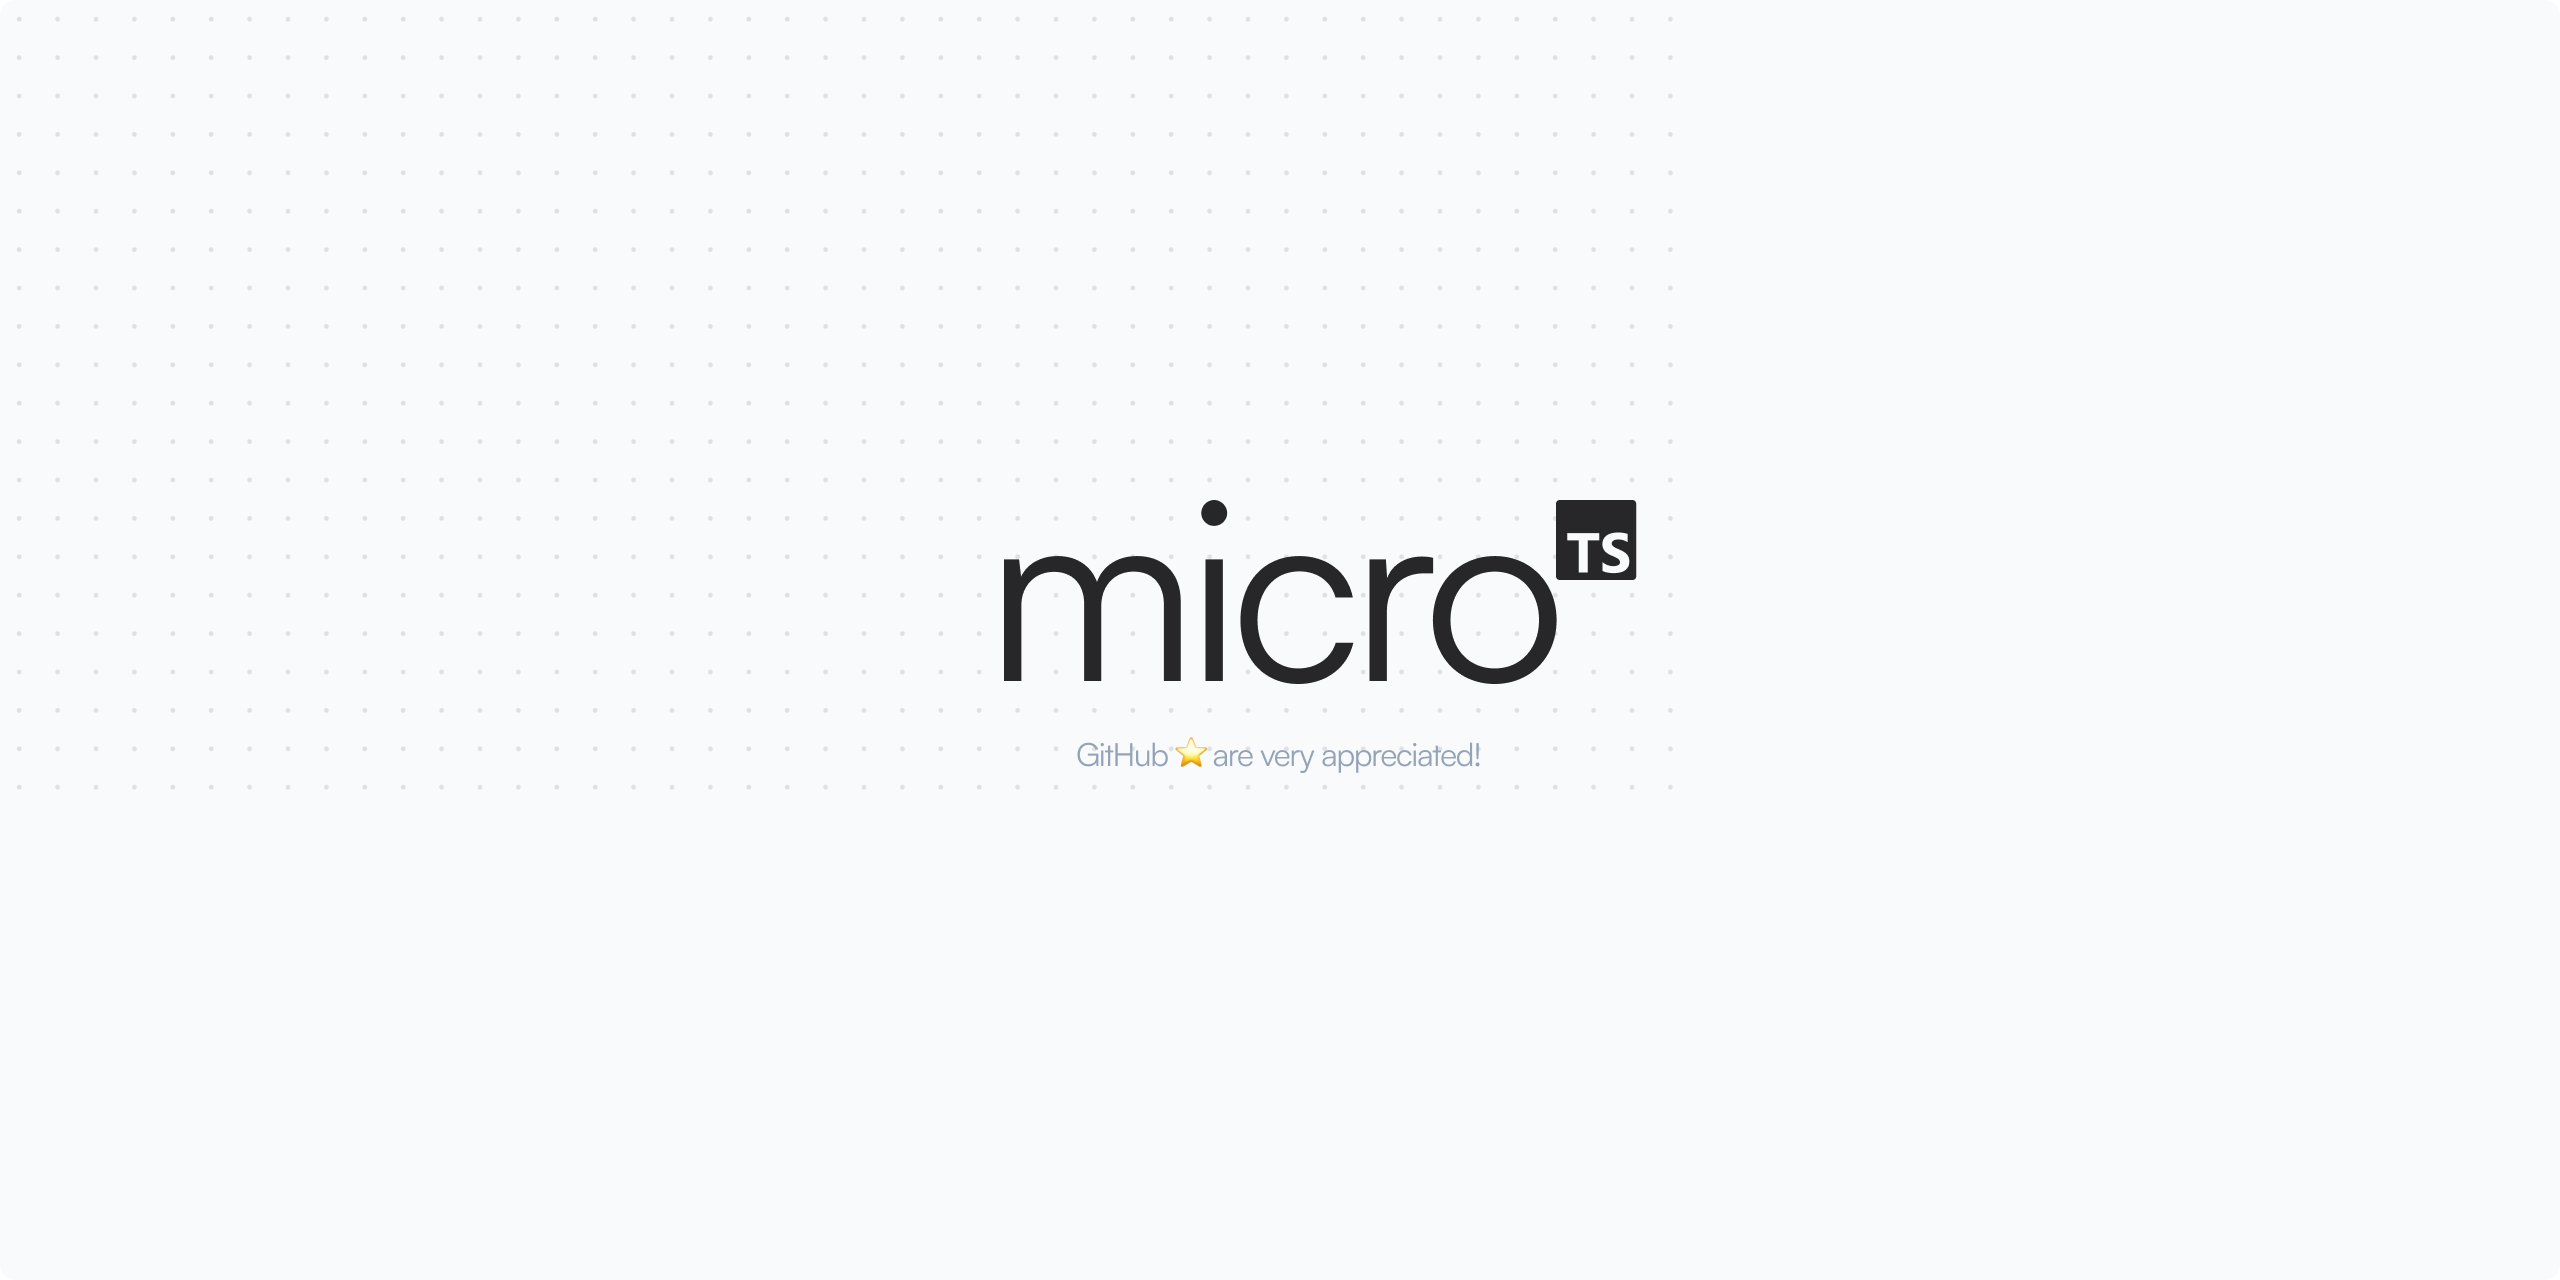
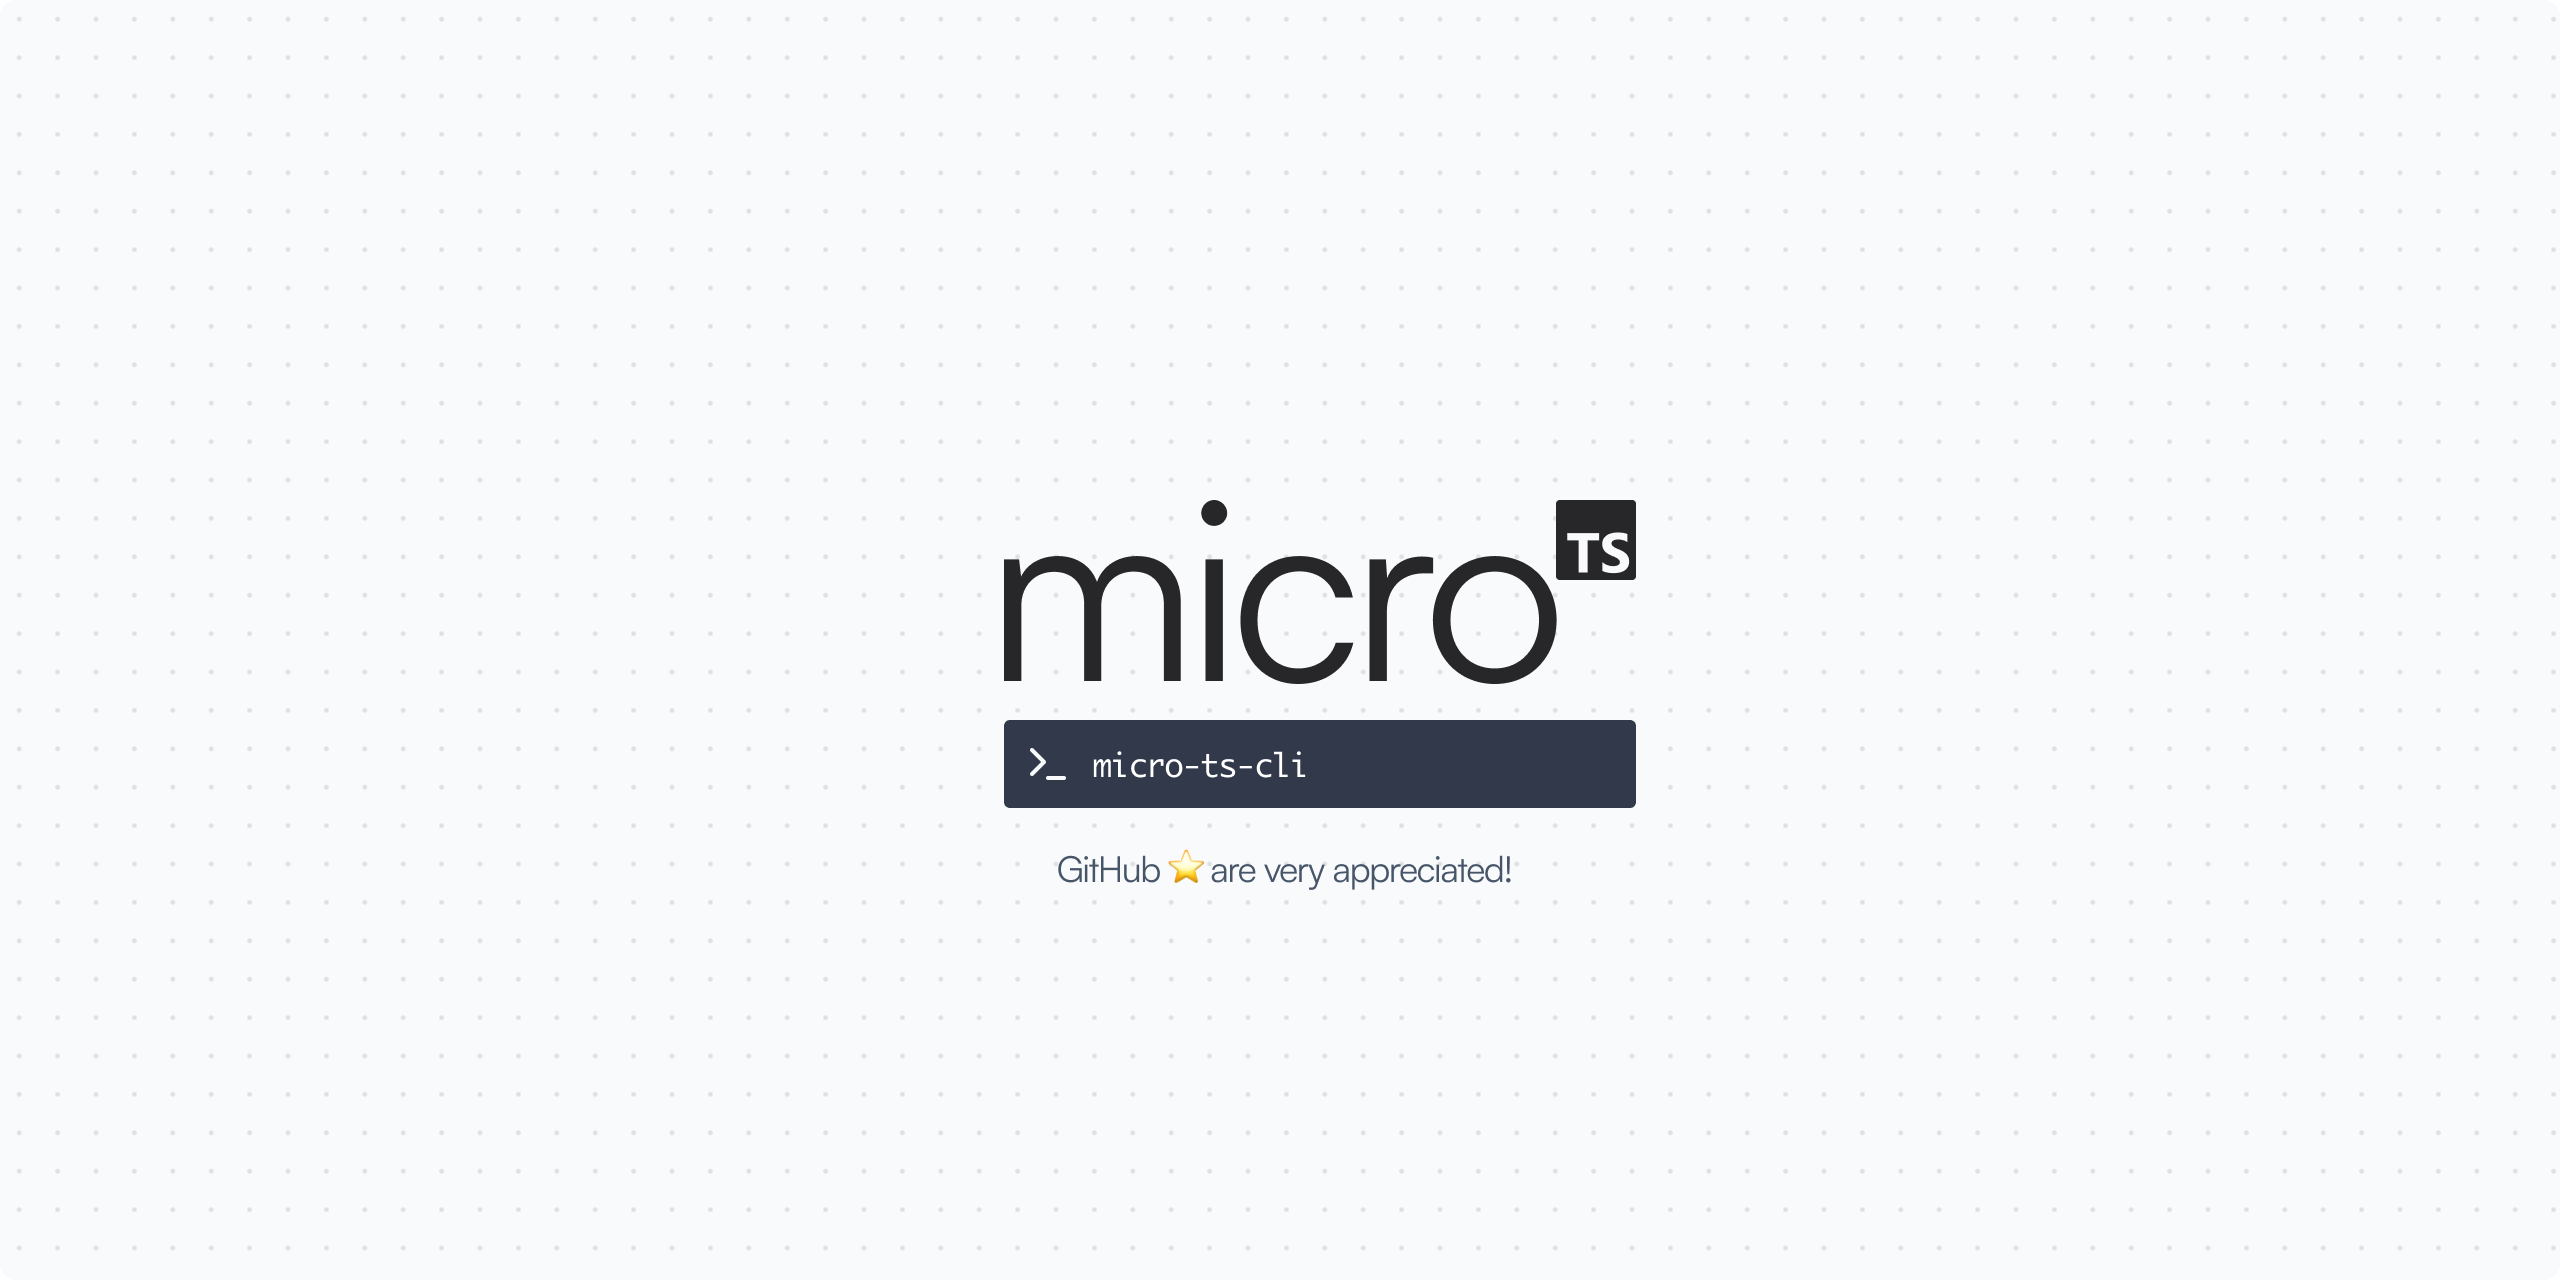
feat: :tada: micro-ts-cli is alive!
- v1.0 - `micro-ts-cli` will let you quickly clone and rename your next `micro-ts` project in seconds - Clone the repo into your CWD - Replace some values in the package.json file

Changed region(s): [[0.375, 0.5625, 0.6562, 0.6875]]

diff --git a/src/bin/cli.ts b/src/bin/cli.ts
@@ -1,0 +1,34 @@
+#!/usr/bin/env node
+
+import { intro, outro, spinner, isCancel, cancel, text } from '@clack/prompts'
+import color from 'picocolors'
+import cloneGitHubRepo from '../commands/clone-github-repo'
+import replacePackageValues from '../commands/replace-package-values'
+
+async function main() {
+    console.log()
+    intro(color.inverse('micro-ts-cli'))
+    intro(`Build a your next micro ${color.blue('TypeScript')} ${color.bold('project in seconds!')}`)
+
+    const projectName = await text({
+        message: 'Project name',
+        placeholder: 'my-micro-ts-project',
+    })
+
+    if (isCancel(projectName)) {
+        cancel(`Project creation cancelled`)
+        return process.exit(1)
+    }
+
+    const s = spinner()
+    s.start('Fetching micro-ts from GitHub...')
+
+    const path = await cloneGitHubRepo(projectName)
+    await replacePackageValues(path, projectName)
+
+    s.stop('micro-ts cloned from GitHub at : ' + color.bold(path))
+
+    outro(`Enjoy your new ${color.bold('micro-ts')} project!`)
+}
+
+main().catch(console.error)

diff --git a/src/commands/replace-package-values.ts b/src/commands/replace-package-values.ts
@@ -1,0 +1,21 @@
+import { replaceInFile } from 'replace-in-file'
+
+export default async (path: string, name: string) => {
+    const options = {
+        files: `${path}/package.json`,
+        from: [
+            /"name": ".*"/g,
+            /"version": ".*"/g,
+            /"repository": .*[\n\r]*/g,
+            /"author":.*[\n\r]*/g,
+            /"description": ".*"/g,
+        ],
+        to: [`"name": "${name}"`, `"version": "1.0.0"`, '', '', `"description": "Project generated with micro-ts-cli"`],
+    }
+
+    try {
+        await replaceInFile(options)
+    } catch (error) {
+        console.error('Error occurred:', error)
+    }
+}

diff --git a/src/commands/clone-github-repo.ts b/src/commands/clone-github-repo.ts
@@ -1,0 +1,12 @@
+import { download, extract } from 'gitly'
+
+export default async (name: string) => {
+    const cwd = process.cwd()
+    const path = `${cwd}/${name}`
+    const microTsRepo = 'adevinwild/micro-ts'
+
+    const repoPath = await download(microTsRepo)
+    await extract(repoPath, path)
+
+    return path
+}

diff --git a/README.md b/README.md
@@ -3,75 +3,38 @@
 </p>
 <br />
 <p align="center" style="max-width:50%;margin:0 auto;">
-  <code>micro-ts</code> A micro-minimalist template to create TypeScript packages with `microbundle`.
+  <code>micro-ts-cli</code> A command-line interface for quickly bootstrapping TypeScript projects with microbundle
 </p>
 <br />
 
 <a href="https://github.com/adevinwild/micro-ts/generate">
   <p align="center">
-    <kbd>Start now ✨</kbd>
+    <kbd>Generate a new repository ✨</kbd>
   </p>
 </a>
 
 ## Features 🎉
 
--   Pre-configured `microbundle` repository 📦
--   Pre-configured `eslint` and `prettier` 🛠
--   Pre-configured `jest` and `ts-jest` 🧪
+-   🚀 Quickly create a new TypeScript project with microbundle
+-   🎨 Easy project customization with interactive prompts
+-   📥 Automatically clone and setup the micro-ts template repository
 
 ## Usage 📖
 
-You can clone the repository or click on the `Use this template` button to create a new repository from this template.
-
-Start hacking inside the `src` folder and run `npm run build` to build the package.
-
-## Publishing 🚀
-
-While we haven't included a specific package for publishing your NPM package, we do have a few recommendations for you. If you want a simple and straightforward method for publishing your package, **we recommend using the [np](https://github.com/sindresorhus/np) package.**
-The following command will guide you through the publishing process, and it is an easy way to publish your package.
+To use `micro-ts-cli`, simply run the following command:
 
 ```bash
-npx np
+npx micro-ts-cli
 ```
 
-## Configuration 🛠
+This will launch the interactive prompts to create a new TypeScript project with microbundle.
 
-<kbd>micro-ts</kbd> is based on the `microbundle` package. You can find more information about the configuration [here](https://github.com/developit/microbundle).
+## How micro-ts works 🤔
 
-The `package.json` file contains the following keys:
+[micro-ts](https://github.com/adevinwild/micro-ts) is a template repository on GitHub designed to quickly bootstrap TypeScript projects with microbundle.
+`micro-ts-cli` clone the micro-ts repository and sets up the new project by customizing the values in the package.json file.
 
-```
-
-{
-"name": "foo", // your package name
-"type": "module",
-"source": "src/foo.js", // your source code
-"exports": {
-"require": "./dist/foo.cjs", // used for require() in Node 12+
-"default": "./dist/foo.modern.js" // where to generate the modern bundle (see below)
-},
-"main": "./dist/foo.cjs", // where to generate the CommonJS bundle
-"module": "./dist/foo.module.js", // where to generate the ESM bundle
-"unpkg": "./dist/foo.umd.js", // where to generate the UMD bundle (also aliased as "umd:main")
-"scripts": {
-"build": "microbundle", // compiles "source" to "main"/"module"/"unpkg"
-"dev": "microbundle watch" // re-build when source files change
-}
-}
-
-```
-
-<small>This is a copy of the `microbundle` documentation.</small>
-
-When you build your project using `microbundle`, three different file formats are generated:
-
--   <kbd>.umd.js</kbd>: A Universal Module Definition (UMD) file format that works in different module systems, including AMD, CommonJS, and global scripts.
-
--   <kbd>.module.js</kbd>: An ES module file format that uses the import and export syntax and is designed to work in modern browsers and build tools.
-
--   <kbd>.cjs</kbd>: A CommonJS module file format that uses the require and module.exports syntax and is used in Node.js and older JavaScript environments.
-
-You can use these file formats to **target different environments**.
+For more information on micro-ts and its features, please visit the repository at: [https://github.com/adevinwild/micro-ts](https://github.com/adevinwild/micro-ts)
 
 ## License 📝
 
@@ -79,6 +42,6 @@ You can use these file formats to **target different environments**.
 
 <a href="https://github.com/adevinwild/micro-ts/generate">
   <p align="center">
-    <kbd>Start now ✨</kbd>
+    <kbd>Generate a new repository ✨</kbd>
   </p>
 </a>

diff --git a/my-project/README.md b/my-project/README.md
@@ -1,0 +1,84 @@
+<p align="center" >
+    <img alt="micro-ts" src="./.r/banner.png" width="640" />
+</p>
+<br />
+<p align="center" style="max-width:50%;margin:0 auto;">
+  <code>micro-ts</code> A micro-minimalist template to create TypeScript packages with `microbundle`.
+</p>
+<br />
+
+<a href="https://github.com/adevinwild/micro-ts/generate">
+  <p align="center">
+    <kbd>Start now ✨</kbd>
+  </p>
+</a>
+
+## Features 🎉
+
+-   Pre-configured `microbundle` repository 📦
+-   Pre-configured `eslint` and `prettier` 🛠
+-   Pre-configured `jest` and `ts-jest` 🧪
+
+## Usage 📖
+
+You can clone the repository or click on the `Use this template` button to create a new repository from this template.
+
+Start hacking inside the `src` folder and run `npm run build` to build the package.
+
+## Publishing 🚀
+
+While we haven't included a specific package for publishing your NPM package, we do have a few recommendations for you. If you want a simple and straightforward method for publishing your package, **we recommend using the [np](https://github.com/sindresorhus/np) package.**
+The following command will guide you through the publishing process, and it is an easy way to publish your package.
+
+```bash
+npx np
+```
+
+## Configuration 🛠
+
+<kbd>micro-ts</kbd> is based on the `microbundle` package. You can find more information about the configuration [here](https://github.com/developit/microbundle).
+
+The `package.json` file contains the following keys:
+
+```
+
+{
+"name": "foo", // your package name
+"type": "module",
+"source": "src/foo.js", // your source code
+"exports": {
+"require": "./dist/foo.cjs", // used for require() in Node 12+
+"default": "./dist/foo.modern.js" // where to generate the modern bundle (see below)
+},
+"main": "./dist/foo.cjs", // where to generate the CommonJS bundle
+"module": "./dist/foo.module.js", // where to generate the ESM bundle
+"unpkg": "./dist/foo.umd.js", // where to generate the UMD bundle (also aliased as "umd:main")
+"scripts": {
+"build": "microbundle", // compiles "source" to "main"/"module"/"unpkg"
+"dev": "microbundle watch" // re-build when source files change
+}
+}
+
+```
+
+<small>This is a copy of the `microbundle` documentation.</small>
+
+When you build your project using `microbundle`, three different file formats are generated:
+
+-   <kbd>.umd.js</kbd>: A Universal Module Definition (UMD) file format that works in different module systems, including AMD, CommonJS, and global scripts.
+
+-   <kbd>.module.js</kbd>: An ES module file format that uses the import and export syntax and is designed to work in modern browsers and build tools.
+
+-   <kbd>.cjs</kbd>: A CommonJS module file format that uses the require and module.exports syntax and is used in Node.js and older JavaScript environments.
+
+You can use these file formats to **target different environments**.
+
+## License 📝
+
+[MIT](./LICENSE)
+
+<a href="https://github.com/adevinwild/micro-ts/generate">
+  <p align="center">
+    <kbd>Start now ✨</kbd>
+  </p>
+</a>
